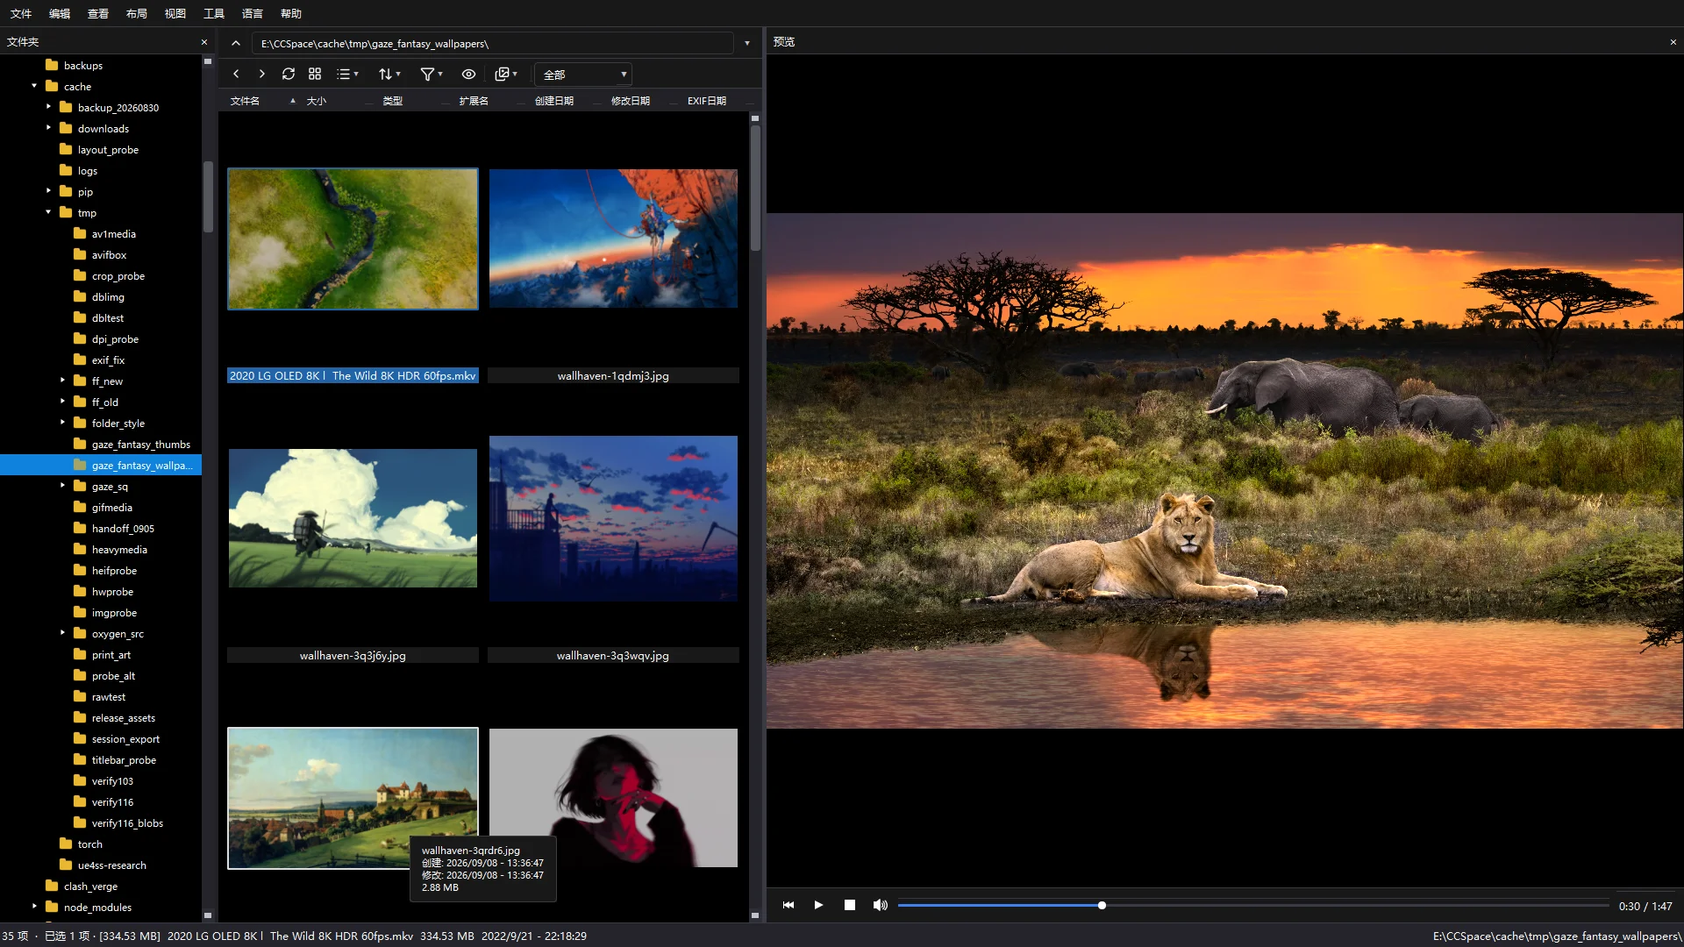
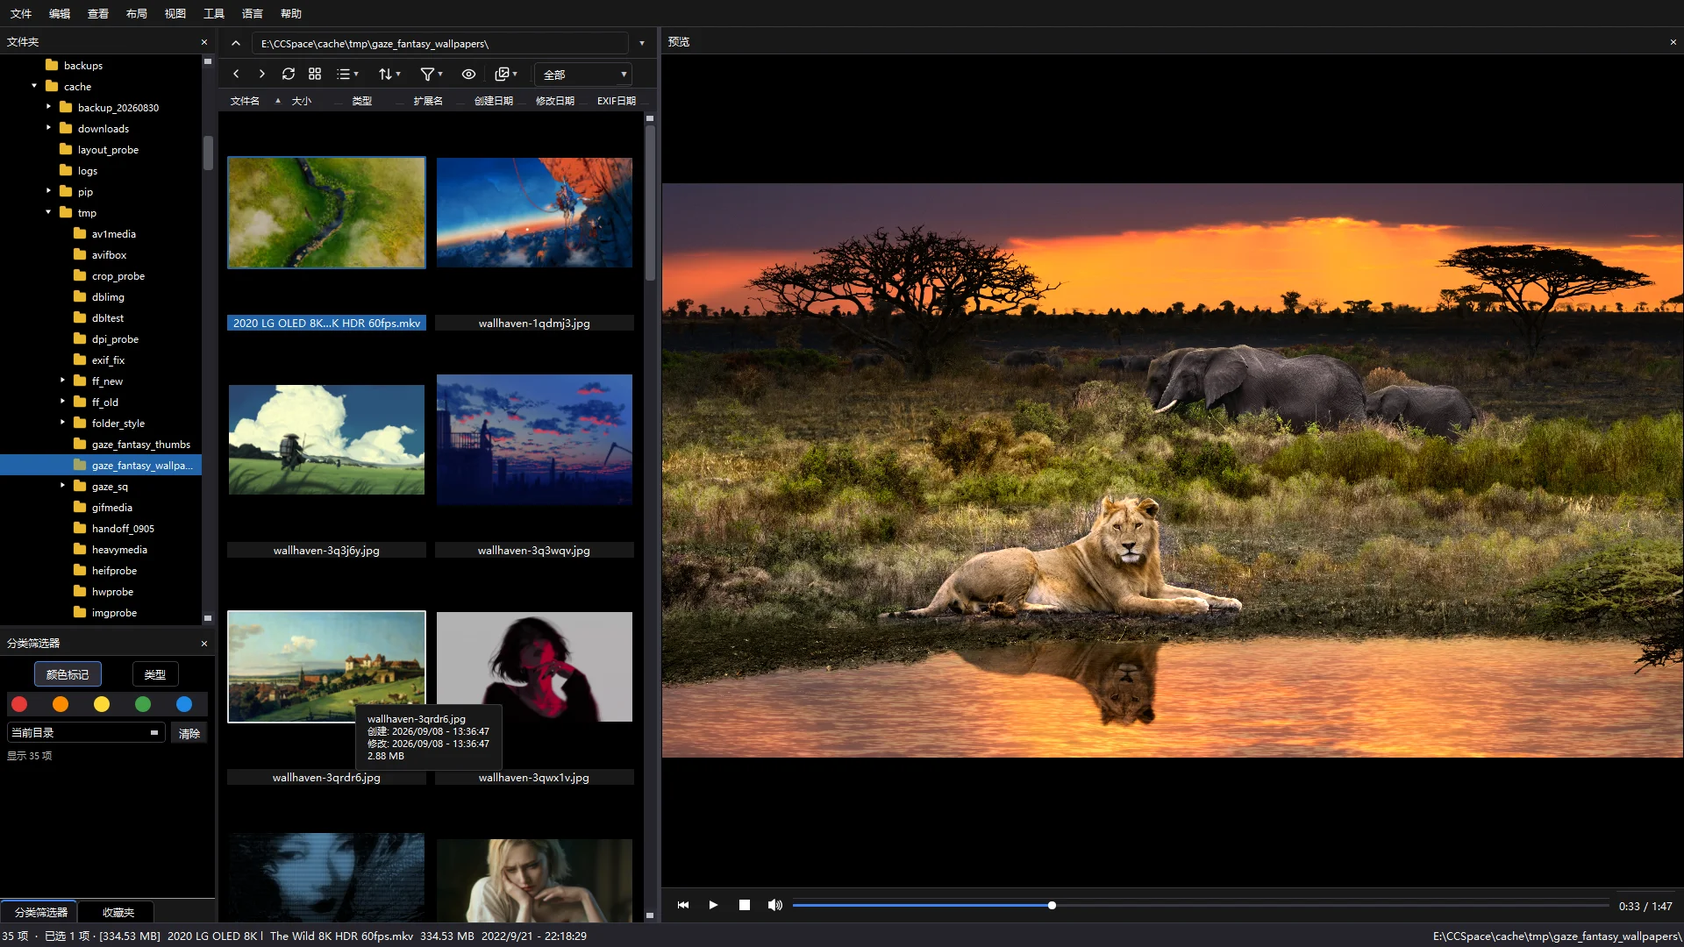
README: 全面重设计——5 张实机截图、功能 9 组表格化、新增同类对比区
5 张实机截图(浏览器/查看器/全屏画廊/设置/快捷键),功能 9 组表格化并按实量
扩充,新增同类对比区(Everything 联动/CLIP 以文搜图/CMYK/性能),快捷键表按
真实键位重排(C/V 翻页,F/D 标记,S 删除,右键+滚轮进度条,长按与 Ctrl+滚轮
缩放);缩略图性能表述改为客观能力描述(后台多线程 + 缓存命中即出),中英同步。

diff --git a/README.en-US.md b/README.en-US.md
@@ -14,73 +14,53 @@
 ![Qt](https://img.shields.io/badge/Qt-6.8%20LTS-41CD52?style=flat-square&logo=qt&logoColor=white)
 ![License](https://img.shields.io/badge/license-GPL--3.0-blue?style=flat-square)
 
-🔥 A lightweight open-source alternative inspired by XnView MP, rebuilt on a modern stack (C++17 / Qt 6.8 LTS) — high performance, comfort-first UX, and broad format coverage.
+### 🔥 One program that does the whole job: browser + viewer + player + manager
+
+**Every format** (33 images · 26 RAW · 28 videos · 10 audio · PDF/TXT/MD) · **real-time 8K HDR10 playback** · **full-speed software-decoded AV1** · **Everything-powered instant search** · **local CLIP text-to-image search** · **buttery scrolling in 100k-file folders** · ~250 features · 166 setting keys
 
 ### **No media library to build — unpack and it just works. Manage files of every format.**
+
+> Inspired by **XnView MP**, this project aims to be a lightweight alternative.
+> Kudos to the original author, **Pierre-e Gougelet**!
 
 </div>
 
 ---
 
+## ✨ What Gaze does that others don't
+
+| | Gaze | Typical alternatives |
+|---|---|---|
+| 📂 Media library | **Zero library**: open it and the whole disk is there — folders are what you see, no scanning wait | Build / import a library first, wait for indexing |
+| 📦 Install | **Unpack and run**: no registry writes, migrate by copying the folder; installer also available | Installer + registry + config scattered around |
+| 🧩 Codecs | **FFmpeg / Ghostscript / LibRaw / dav1d all bundled** — AVIF / HEIC / RAW / PDF open on a bare system | Requires system codecs or extensions |
+| 🗂 Format handling | **Files of every format can be browsed and managed**; preview coverage listed separately | Images only — everything else invisible |
+| 🔎 Disk-wide search | **Everything engine integration**: instant exact folder sizes, whole-disk file search in a blink | You get to browse one folder at a time |
+| 🧠 Text-to-image | **Local CLIP+OCR semantic search**: find that picture with a sentence, data never leaves the machine | No such capability |
+| 🎬 Video | Real-time 8K HDR10 / full-speed software AV1 / Motion Photos play on a single click | Often handed off to an external player |
+| ⚡ Performance | **Extremely optimized thumbnail generation** (background multithreading + instant cache hits) · **instant, precise video seeking** | Waiting on thumbnails, scrubbing that drifts |
+| 🖨 CMYK printing | **Color-managed CMYK JPEG decoding** + one-click print-intent toggle | Unsupported, or decoded with a color cast |
+
+---
+
+> From file switching and thumbnail generation to labeling, deletion and filtering — every path of the browse-and-preview experience is tuned to the limit.
+
 ## 📑 Features
 
 <details>
-<summary><b>Click to expand all features</b> (~250 items, full table in <a href="FEATURES.en-US.md">FEATURES.en-US.md</a>)</summary>
+<summary><b>Only a brief list of ~250 features here</b> — see <a href="FEATURES.en-US.md">FEATURES.en-US.md</a> for the full inventory</summary>
 
-**🖼 Browser**
-- ✅ Three-pane layout: folder tree / file grid / preview panel, each toggleable, layout fully remembered
-- ✅ 8 view modes: thumbnails, thumbnails+filename, +labels, details, icons, list, details table, waterfall
-- ✅ 4-in-1 folder thumbnails: folders aggregate 4 preview images, fetched at high resolution then downsampled
-- ✅ Persistent multi-tabs with tab thumbnails; Ctrl+W close, Ctrl+Shift+T restore, middle-click/double-click close
-- ✅ Virtualized owner-drawn file grid: smooth scrolling in 100k-file folders, fixed 7-column header
-- ✅ Thumbnail engine: background multithreaded + SQLite cache, 384/768/custom sizes
-- ✅ Inline search (Ctrl+F type-to-search) + folder search dialog (include/exclude regex)
-
-**🔍 Sort · Filter · Labels**
-- ✅ 16-column header sorting: name/size/type/extension/created/modified/EXIF dual dates/dimensions/ratio/print size…
-- ✅ Natural sorting (1, 2, … 10, not 1, 10, 2)
-- ✅ 18 filter modes: images/videos/audio/documents/executables/folders/custom extension sets
-- ✅ Color labels Ctrl+1~5: stored in SQLite, kept across sessions
-- ✅ Filename color editor (extension → background color)
-
-**👁 Viewer**
-- ✅ Enter to enter, ESC to return — tree and grid hide, image fills the pane
-- ✅ 1:1 pixel view (long-press), cursor-centered zoom, navigator mini-map with draggable blue frame
-- ✅ GIF frame stepping / back-scrubbing / loop rewind
-- ✅ Motion Photo: click the preview to play, XMP/ftyp dual-protocol detection
-- ✅ PDF (Ghostscript) and text preview (auto truncation, word-wrap toggle, MD rendering)
-- ✅ Metadata panel + histogram + EXIF overview
-- ✅ Multi-image print layouts
-
-**🎬 Video & Audio**
-- ✅ 28 containers: MP4/MKV/WebM/FLV/RMVB/MXF…
-- ✅ AV1 (bundled libdav1d, faulty hardware decoders refused), H.264/H.265, VP9 10-bit HDR10
-- ✅ Playback bar: click-to-seek, remaining-time toggle, volume readout, left-click play/pause
-- ✅ Fullscreen filmstrip gallery: whole folder included, image/video/audio filter buttons
-- ✅ Audio waveform preview: decoded on a background thread, never blocks browsing
-- ✅ Delete/move/rename while playing automatically releases the file
-
-**🗃 Format & codec support (charter: all formats)**
-- ✅ 33 image extensions: JPEG/PNG/GIF/WebP/BMP/TGA/TIFF/SVG/ICO/DDS/EXR/QOI/JPEG 2000…
-- ✅ Modern formats: AVIF, HEIF (HEIC/HIF via bundled FFmpeg), JPEG XL
-- ✅ RAW: 26 vendor extensions, LibRaw 0.21.4 statically linked, "Load original RAW" button
-- ✅ CMYK JPEG: unified print-intent rendering + color interpretation toggle
-- ✅ All codec components ship with the program (FFmpeg/Ghostscript/jpegtran) — zero system extensions required
-
-**📂 File management**
-- ✅ Delete to Recycle Bin (folders & batches included), F3 open with default app, F2/double-click rename
-- ✅ Lossless JPEG rotate/crop (jpegtran)
-- ✅ Drag & drop between tree and grid with clear forbidden-target feedback
-- ✅ Single instance: launching again raises the existing window
-
-**⚙ Settings & integration**
-- ✅ 20 settings pages, ~166 setting keys
-- ✅ Dark/light theme switching live (no restart)
-- ✅ Bilingual UI (Chinese/English, 828 strings fully translated)
-- ✅ Explorer context menu "Browse with Gaze", file association registration, ms-settings shortcuts
-- ✅ Search images by text: local CLIP+OCR semantic retrieval service
-- ✅ Folder size computation (accurate background recursion + cache DB)
-- ✅ Database maintenance page, crash minidump + event log self-diagnostics
+| | |
+|---|---|
+| 🖼 **Browsing & views** | Three-pane layout (tree / grid / preview; six pane types toggled & remembered) · 8 view modes · layout presets · persistent multi-tabs (thumbnail tabs, restorable) · back/forward auto-locates · address bar (history, file:/// support) · two-way tree sync · hidden items tinted · drag & drop move / copy · title templates · five startup modes · single instance |
+| 🗂 **Thumbnails** | Background multithreaded generation, instant on cache hit · 4-in-1 folder thumbnails · three-tier decoding (Qt → Shell → ffmpeg fallback) · single-cover mode · configurable frame position · HDR tone-mapping · 48–1024px custom · SQLite cache & maintenance tools |
+| 👁 **Viewer & preview** | Eight preview kinds (image / GIF / video / audio / TXT / MD / PDF / RAW) · 1:1 pixel view · cursor-centered zoom · navigator mini-map · Gamma / sharpen / HiDPI 1px=1px · three fullscreen layers (exact layout restore) · top gallery · Markdown rendering · PDF rendering · RAW background decode · EXIF tree + histogram · instant folder sizes · video flicker eliminated |
+| 🎬 **Video & audio** | 28 containers · real-time 8K HDR10 · full-speed software AV1 · instant precise seeking · Motion Photos on one click · GIF bidirectional scrubbing · progressively drawn waveforms · configurable seek step · delete/move while playing without file locks |
+| 🔎 **Search & sort** | Everything-powered instant disk search · local CLIP text-to-image search · 16 sort columns · natural sort · 10 startup presets · 18 filter modes · five color labels · Ctrl+F type-to-search · folder regex search (time-sliced, never freezes) |
+| 📋 **File management** | ~25-item context menu · Recycle-Bin delete (folders & batches) · lossless JPEG rotate / flip / crop · lossless non-JPEG transforms · multi-image print layouts (15 persisted options) · EXIF auto-rotate · rename focus routing · recent files |
+| 🗃 **Formats & decoding** | AVIF / JXL → ffmpeg (dav1d / libjxl) · HEIC → WIC · color-managed CMYK decoding + print-intent toggle · file-header sniffing · RAW whitelist (LibRaw statically linked) · every codec ships bundled |
+| ⚙ **Settings & integration** | Hundreds of setting keys · 20 pages · fully remappable shortcuts (visual editor) · dark / light themes · filename background editor · Explorer context-menu integration · file associations · portable / %APPDATA% migration |
+| 🛡 **Stability & diagnostics** | GUI heartbeat watchdog · crash minidumps · startup checkpoints · full-level self-diagnostics logs |
 
 </details>
 
@@ -88,13 +68,25 @@
 
 ## 📸 Screenshots
 
-**Browser (three-pane layout)**
+**Browser (three-pane layout · multi-format preview)**
 
 ![Browser](docs/images/screenshot_browser.webp)
 
-**G fullscreen preview (filmstrip on top)**
+**Viewer (multi-tab · multilingual UI)**
 
-![G fullscreen](docs/images/screenshot_gfull.webp)
+![Viewer](docs/images/screenshot_viewer_en.webp)
+
+**Fullscreen preview (gallery on top)**
+
+![Fullscreen preview](docs/images/screenshot_gfull.webp)
+
+**Settings (hundreds of keys, down to every behavior)**
+
+![Settings](docs/images/screenshot_settings.webp)
+
+**Shortcuts (the genuinely handy kind)**
+
+![Shortcuts](docs/images/screenshot_shortcuts.webp)
 
 ---
 
@@ -147,19 +139,23 @@ Icon assets are downloaded and rendered by `tools/fetch_mdi_icons.py` / `tools/f
 
 | Key | Action |
 |---|---|
-| Enter / double-click | Enter the viewer (browser ↔ viewer toggle) |
+| C / V | Previous / next file |
+| Space | Play / pause |
+| F | Color label |
+| D | Clear label |
+| Ctrl+1~5 | Pick one of five labels |
+| X | New folder |
+| S | Delete to Recycle Bin |
+| Right-drag + wheel | Seek the progress bar |
+| Long-press left button | Zoom at cursor |
+| Ctrl+Wheel | Zoom the picture |
+| Enter / double-click | Enter the viewer |
 | ESC | Return to the browser |
-| G | Fullscreen preview (image only; layout restored exactly on exit) |
+| G | Fullscreen preview (exact layout restore) |
 | F11 | Fullscreen window |
-| Space | Default action / play-pause |
 | Ctrl+F | Inline search |
-| F2 / F3 | Rename / open with default app |
-| Ctrl+W | Close the current tab |
-| Ctrl+PgUp / PgDn | Switch tabs (progress seek on media pages) |
-| Ctrl+1~5 | Color labels |
-| B / F | Browse history back / forward |
-| Home / End | First / last item |
-| Long-press left button | 1:1 pixel view (cursor-focused) |
+| Ctrl+W | Close current tab |
+| Ctrl+PgUp / PgDn | Switch tabs |
 
 Full table in [FEATURES.en-US.md §11](FEATURES.en-US.md).
 
@@ -180,9 +176,6 @@ Full table in [FEATURES.en-US.md §11](FEATURES.en-US.md).
 - [Ghostscript](https://ghostscript.com/) — PDF rendering
 - [jpegtran](https://jpegclub.org/) — lossless JPEG operations
 - [XnView MP](https://www.xnview.com/en/xnviewmp/) — the design reference for the UI form and interactions
-
-> Inspired by **XnView MP**, this project aims to be a lightweight alternative.
-> Kudos to the original author, **Pierre-e Gougelet**!
 
 ---
 

diff --git a/README.md b/README.md
@@ -4,7 +4,7 @@
 
 # Gaze
 
-**一款为 Windows 打造的本地媒体查看器与文件浏览器**
+**为 Windows 打造的本地媒体查看器与文件浏览器**
 
 [English](./README.en-US.md) | 简体中文
 
@@ -14,73 +14,54 @@
 ![Qt](https://img.shields.io/badge/Qt-6.8%20LTS-41CD52?style=flat-square&logo=qt&logoColor=white)
 ![License](https://img.shields.io/badge/license-GPL--3.0-blue?style=flat-square)
 
-🔥 受 XnView MP 启发的轻量级开源替代方案，以现代化技术栈（C++17 / Qt 6.8 LTS）重新实现 —— 高性能、高舒适度、格式广度优先。
+### 🔥 一个程序，把浏览器 + 查看器 + 播放器 + 管理器的活全部干完
+
+**全格式**（33 图片 · 26 RAW · 28 视频 · 10 音频 · PDF/TXT/MD）· **8K HDR10 实时播放** · **AV1 满速软解** · **Everything 秒级全盘搜** · **本地 CLIP 以文搜图** · **十万级目录流畅滚动** · 约 250 项功能 · 166 个设置键
 
 ### **无需额外建立文件库，解压即用、直接打开就能用；支持管理所有格式的文件。**
+
+> 本项目受 **XnView MP** 启发，旨在作为一个轻量级的替代方案。
+> 致敬原作者 **Pierre-e Gougelet**！
 
 </div>
 
 ---
 
+## ✨ 先看同类没有的
+
+| | Gaze | 常见同类 |
+|---|---|---|
+| 📂 文件库 | **零文件库**：打开就是全盘，目录即所见，不等扫描 | 先建库 / 导入，等它索引完 |
+| 📦 安装 | **解压即用**：不写注册表，拷目录即迁移，另备安装版 | 安装器 + 注册表 + 配置散落各处 |
+| 🧩 解码器 | **FFmpeg / Ghostscript / LibRaw / dav1d 全部随包**，裸系统直开 AVIF / HEIC / RAW / PDF | 要求安装系统编解码器或扩展 |
+| 🗂 格式管理 | **所有格式的文件都能浏览与管理**，预览另列清单 | 只认图片，其余类型视而不见 |
+| 🔎 全盘搜索 | **Everything 引擎联动**：文件夹大小瞬间出精确值，全盘文件秒搜 | 只能在当前文件夹里翻 |
+| 🧠 以文搜图 | **本地 CLIP+OCR 语义检索**：一句话找出那张图，数据不出本机 | 没有这个能力 |
+| 🎬 视频 | 8K HDR10 实时播放 / AV1 满速软解 / 动态照片单击即播 | 常需外部播放器接力 |
+| ⚡ 性能 | **缩略图生成极致优化**（后台多线程 + 缓存命中即出）· **视频进度条定位精准即时** | 缩略图干等，进度条拖动漂移 |
+| 🖨 CMYK 印刷 | **CMYK JPEG 色彩管理解码** + 印刷口径一键切换 | 不支持，或解出来偏色 |
+
+---
+
+
+> 从文件切换、缩略图生成到标记与删除、分类筛选 —— 全文件管理与预览体验的每一条路径，都按性能极尽优化。
+
 ## 📑 项目功能
 
 <details>
-<summary><b>点击展开全部特性</b>（约 250 项，逐项全表见 <a href="FEATURES.md">FEATURES.md</a>）</summary>
+<summary><b>此处仅简略列出约 250 项功能</b> —— 完整功能清单见 <a href="FEATURES.md">FEATURES.md</a></summary>
 
-**🖼 浏览器**
-- ✅ 三栏布局：目录树 / 文件网格 / 预览面板，各自可开关、布局全程记忆
-- ✅ 8 种查看方式：缩略图、缩略图+文件名、+标签、详细信息、图标、列表、详细信息表、瀑布流
-- ✅ 四合一文件夹缩略图：文件夹聚合其内 4 张预览图，向原图取高清再降采样
-- ✅ 常驻多标签页 + 标签缩略图，Ctrl+W 关签、Ctrl+Shift+T 恢复、中键/双击关签
-- ✅ 虚拟化自绘文件网格：十万级文件目录依旧流畅滚动，表头 7 列固定
-- ✅ 缩略图引擎：后台多线程 + SQLite 缓存，尺寸 384/768/自定义
-- ✅ 内联搜索（Ctrl+F 输入即搜）+ 目录搜索对话框（含/排除正则）
-
-**🔍 排序 · 筛选 · 标记**
-- ✅ 表头 16 列排序：名称/大小/类型/扩展名/创建/修改/EXIF 双日期/尺寸/比例/打印尺寸…
-- ✅ 自然排序（1, 2, … 10，不是 1, 10, 2）
-- ✅ 18 种筛选模式：图片/视频/音频/文档/可执行/文件夹/自定义扩展名集合
-- ✅ 颜色标记 Ctrl+1~5：SQLite 存储，跨会话保留
-- ✅ 文件名底色编辑器（扩展名 → 底色）
-
-**👁 查看器**
-- ✅ Enter 进入、ESC 返回，树与网格隐藏画面占满
-- ✅ 1:1 像素查看（长按）、光标中心缩放、导航小图蓝框拖动定位
-- ✅ GIF 逐帧步进 / 跳帧回拖 / 片尾回卷
-- ✅ 动态照片（Motion Photo）单击即播，XMP/ftyp 双协议探测
-- ✅ PDF（Ghostscript 渲染）与文本预览（自动截断、换行开关、MD 渲染）
-- ✅ 元数据面板 + 直方图 + EXIF 一览
-- ✅ 多图排版打印
-
-**🎬 视频与音频**
-- ✅ 28 种容器播放：MP4/MKV/WebM/FLV/RMVB/MXF…
-- ✅ AV1（内置 libdav1d，拒绝故障硬解设备）、H.264/H.265、VP9 10bit HDR10
-- ✅ 播放控制栏：点击跳转、剩余时间切换、音量数值、左键播放/暂停
-- ✅ 全屏胶卷画廊：全目录参与、图片/视频/音频分类过滤钮
-- ✅ 音频波形预览：后台线程解码，绝不阻塞浏览
-- ✅ 播放中删除/移动/重命名自动解除文件占用
-
-**🗃 格式与解码（首要要求：全格式）**
-- ✅ 33 种图片扩展名：JPEG/PNG/GIF/WebP/BMP/TGA/TIFF/SVG/ICO/DDS/EXR/QOI/JPEG 2000…
-- ✅ 现代格式：AVIF、HEIF（HEIC/HIF 走随包 FFmpeg）、JPEG XL
-- ✅ RAW：26 种厂商扩展名，LibRaw 0.21.4 静态编入，「加载原始RAW」按钮
-- ✅ CMYK JPEG：印刷口径统一渲染 + 颜色解释切换
-- ✅ 解码组件全部随程序分发（FFmpeg/Ghostscript/jpegtran），不要求安装任何系统扩展
-
-**📂 文件管理**
-- ✅ 删除走回收站（含文件夹与批量）、F3 用默认应用打开、F2/双击重命名
-- ✅ JPEG 无损旋转/裁剪（jpegtran）
-- ✅ 拖放：文件树/网格互拖移动，禁止落点明确反馈
-- ✅ 单实例运行：再次启动唤起已有窗口
-
-**⚙ 设置与集成**
-- ✅ 20 个分类设置页、约 166 个设置键
-- ✅ 深/浅双主题即时切换（无需重启）
-- ✅ 中英双语界面（828 条全量翻译）
-- ✅ 资源管理器右键「用 Gaze 浏览」、文件关联注册、ms-settings 跳转
-- ✅ 以文搜图：接入本地 CLIP+OCR 语义检索服务
-- ✅ 文件夹大小统计（后台精确递归 + 缓存库）
-- ✅ 数据库维护页、崩溃 minidump + 事件日志自诊
+| | |
+|---|---|
+| 🖼 **浏览与视图** | 三栏布局（树 / 网格 / 预览，六类面板独立开关记忆）· 8 种查看方式（缩略图 / +文件名 / +标签 / 详细信息 / 图标 / 列表 / 详细表 / 瀑布流）· 布局方案存档 · 常驻多标签页（缩略图标签，关后可恢复）· 后退 / 前进自动定位 · 地址栏（路径历史 / file:/// 兼容）· 文件树双向同步 · 隐藏文件着色 · 拖放移动 / 复制 · 标题模板 · 带文件启动五档 · 单实例唤起 |
+| 🗂 **缩略图** | 后台多线程生成、缓存命中即出 · 四合一文件夹缩略图 · 三级解码管线（Qt → Shell → ffmpeg 兜底）· 单封面模式 · 抽帧位置可配 · HDR tone-mapping · 48–1024px 自定义 · SQLite 缓存与维护工具 |
+| 👁 **查看器与预览** | 八类预览（图 / GIF / 视频 / 音频 / TXT / MD / PDF / RAW）· 1:1 像素查看 · 光标中心缩放 · 导航小图定位 · Gamma / 锐化 / HiDPI 1px=1px · 三层全屏（退出精确还原布局）· 顶部画廊 · Markdown 渲染 · PDF 渲染 · RAW 后台全解 · EXIF 分组树 + 直方图 · 文件夹大小秒出 · 视频闪帧根治 |
+| 🎬 **视频与音频** | 28 种容器 · 8K HDR10 实时 · AV1 满速软解 · 进度条定位精准即时 · 动态照片单击即播 · GIF 双向擦洗 · 音频波形渐进绘制 · 快进快退步长可设 · 播放中删除 / 移动不占用文件 |
+| 🔎 **搜索与排序** | Everything 联动秒搜全盘 · 本地 CLIP 以文搜图 · 16 列排序 · 自然排序 · 启动排序 10 档 · 18 种筛选 · 五色标记 · Ctrl+F 即搜 · 目录正则搜索（分时不冻界面） |
+| 📋 **文件管理** | 约 25 项右键菜单 · 回收站删除（文件夹 / 批量同权）· JPEG 无损旋转 / 翻转 / 裁剪 · 非 JPEG 无损变换 · 多图排版打印（15 项全持久化）· EXIF 方向自动旋转 · 重命名焦点路由 · 最近文件管理 |
+| 🗃 **格式与解码** | AVIF / JXL → ffmpeg（dav1d / libjxl）· HEIC → WIC · CMYK 色彩管理解码 + 印刷口径切换 · 文件头嗅探 · RAW 独立白名单（LibRaw 静态编入）· 全部解码依赖随包 |
+| ⚙ **设置与集成** | 数百个设置项 · 20 分类页 · 快捷键全可配（可视化编辑）· 深 / 浅双主题 · 文件名底色编辑器 · 资源管理器右键集成 · 文件关联注册 · 便携 / %APPDATA% 迁移 |
+| 🛡 **稳定性与诊断** | GUI 心跳看门狗 · 崩溃 minidump · 启动检查点链 · 全级别日志自诊 |
 
 </details>
 
@@ -88,13 +69,25 @@
 
 ## 📸 程序截图
 
-**浏览器（三栏布局）**
+**浏览器（三栏布局 · 支持多格式预览）**
 
 ![浏览器](docs/images/screenshot_browser.webp)
 
-**G 全屏预览（顶部胶片条）**
+**查看器（多标签 · 多语言展示）**
 
-![G 全屏预览](docs/images/screenshot_gfull.webp)
+![查看器](docs/images/screenshot_viewer_en.webp)
+
+**全屏预览（顶部画廊）**
+
+![全屏预览](docs/images/screenshot_gfull.webp)
+
+**设置（数百个设置项，细到每一处行为）**
+
+![设置](docs/images/screenshot_settings.webp)
+
+**快捷键（真正好用的那一批）**
+
+![快捷键](docs/images/screenshot_shortcuts.webp)
 
 ---
 
@@ -147,19 +140,23 @@ cmake --build build -j
 
 | 键 | 作用 |
 |---|---|
-| Enter / 双击 | 进入查看器（浏览器 ↔ 查看器切换） |
+| C / V | 上一个 / 下一个文件 |
+| 空格 | 播放 / 暂停 |
+| F | 颜色标记 |
+| D | 取消标记 |
+| Ctrl+1~5 | 五色标记直选 |
+| X | 新建文件夹 |
+| S | 删除（进回收站） |
+| 右键 + 滚轮 | 调整进度条 |
+| 长按左键 | 光标处缩放 |
+| Ctrl+滚轮 | 缩放画面 |
+| Enter / 双击 | 进入查看器 |
 | ESC | 返回浏览器 |
-| G | 全屏预览（仅画面，退出后精确还原布局） |
+| G | 全屏预览（退出精确还原布局） |
 | F11 | 界面全屏 |
-| 空格 | 默认操作 / 播放暂停 |
 | Ctrl+F | 内联搜索 |
-| F2 / F3 | 重命名 / 用默认应用打开 |
 | Ctrl+W | 关闭当前标签页 |
-| Ctrl+PgUp / PgDn | 切换标签页（视频页=进度调整） |
-| Ctrl+1~5 | 颜色标记 |
-| B / F | 目录浏览历史后退 / 前进 |
-| Home / End | 首个 / 末个条目 |
-| 长按左键 | 1:1 像素查看（光标聚焦） |
+| Ctrl+PgUp / PgDn | 切换标签页 |
 
 全表见 [FEATURES.md §十一](FEATURES.md)。
 
@@ -180,9 +177,6 @@ cmake --build build -j
 - [Ghostscript](https://ghostscript.com/) —— PDF 渲染
 - [jpegtran](https://jpegclub.org/) —— JPEG 无损操作
 - [XnView MP](https://www.xnview.com/en/xnviewmp/) —— 界面形态与交互的设计参考
-
-> 本项目受 **XnView MP** 启发，旨在作为一个轻量级的替代方案。
-> 致敬原作者 **Pierre-e Gougelet**！
 
 ---
 
